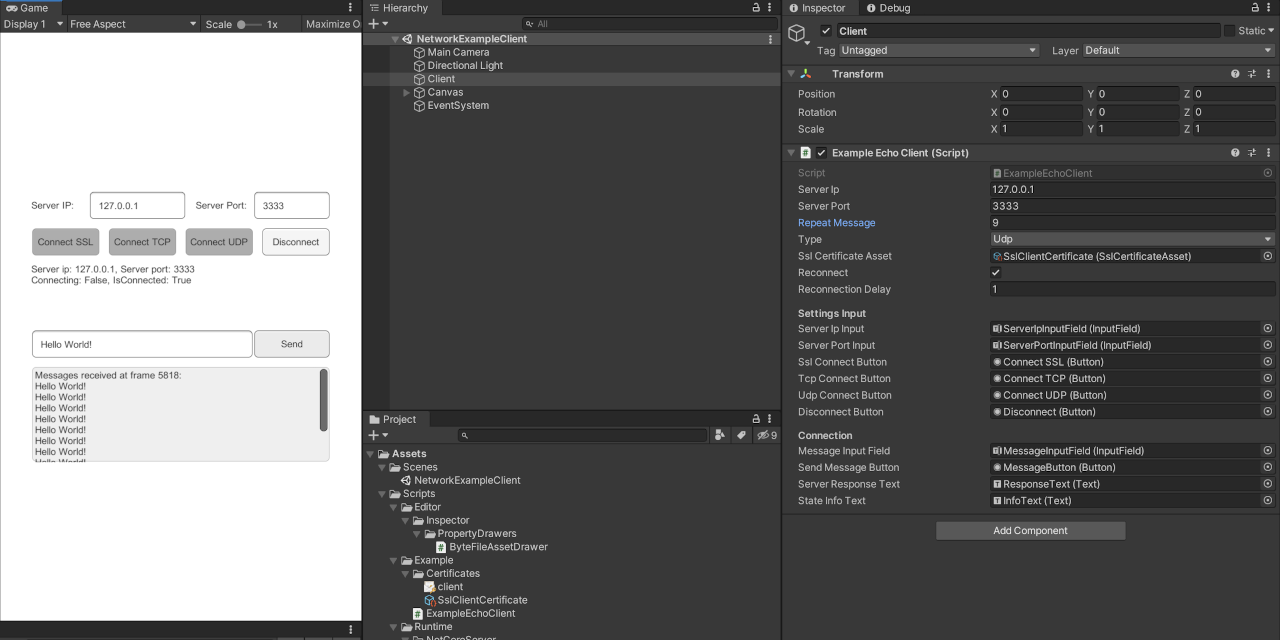
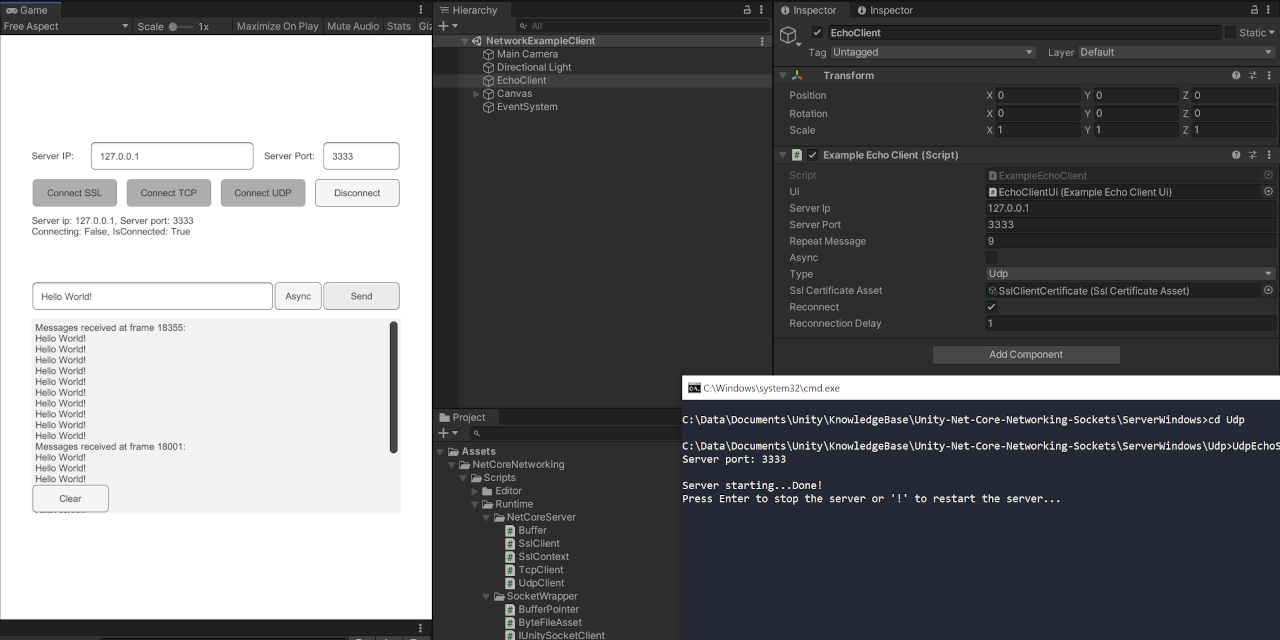
Update preview image

diff --git a/README.md b/README.md
@@ -14,7 +14,7 @@
 * Precompiled server executables for windows for easy testing
 * Small GC overhead - Usage of MemoryStream
 * Async send and receive - Does not block the Main Thread
-* Easy to use - Queue for fetching the last received messages
+* Low level - just plain UPD/TCP/SSL
 * Tested with local, network and remote server
 
 | Platform | SSL  | TCP  | UDP  |
